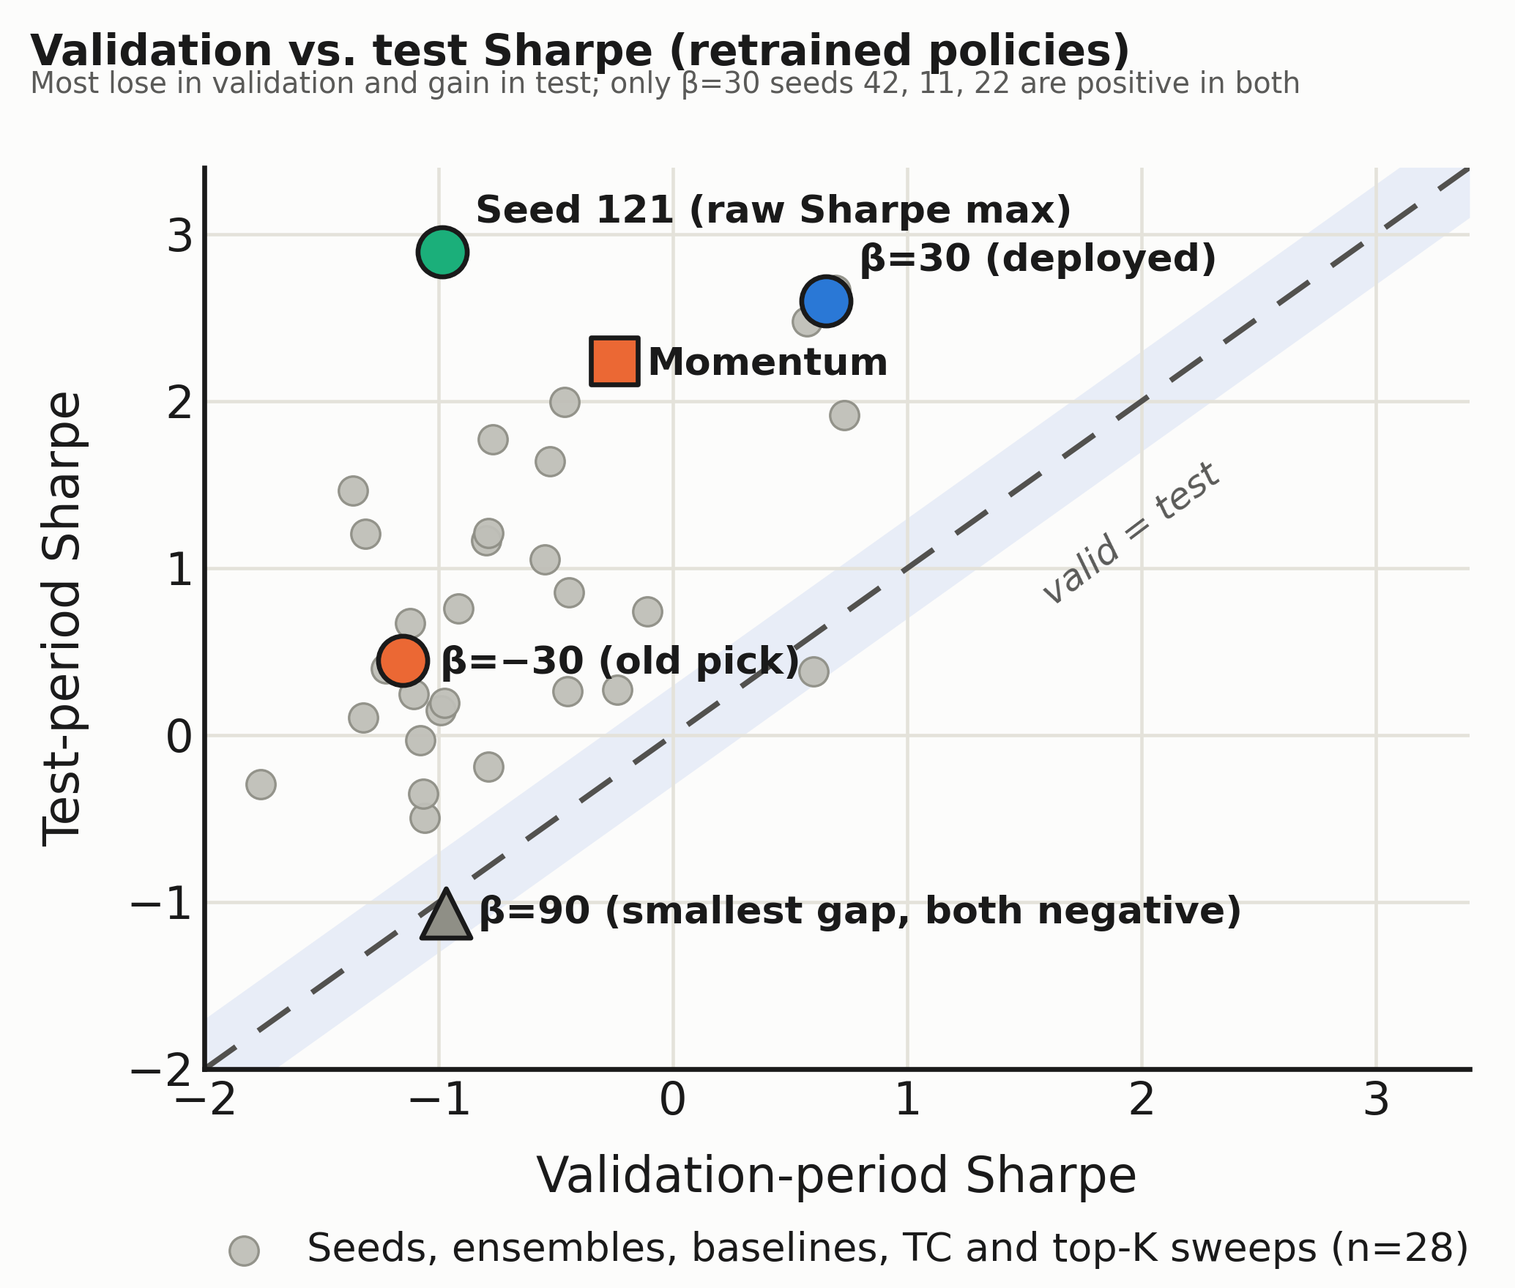
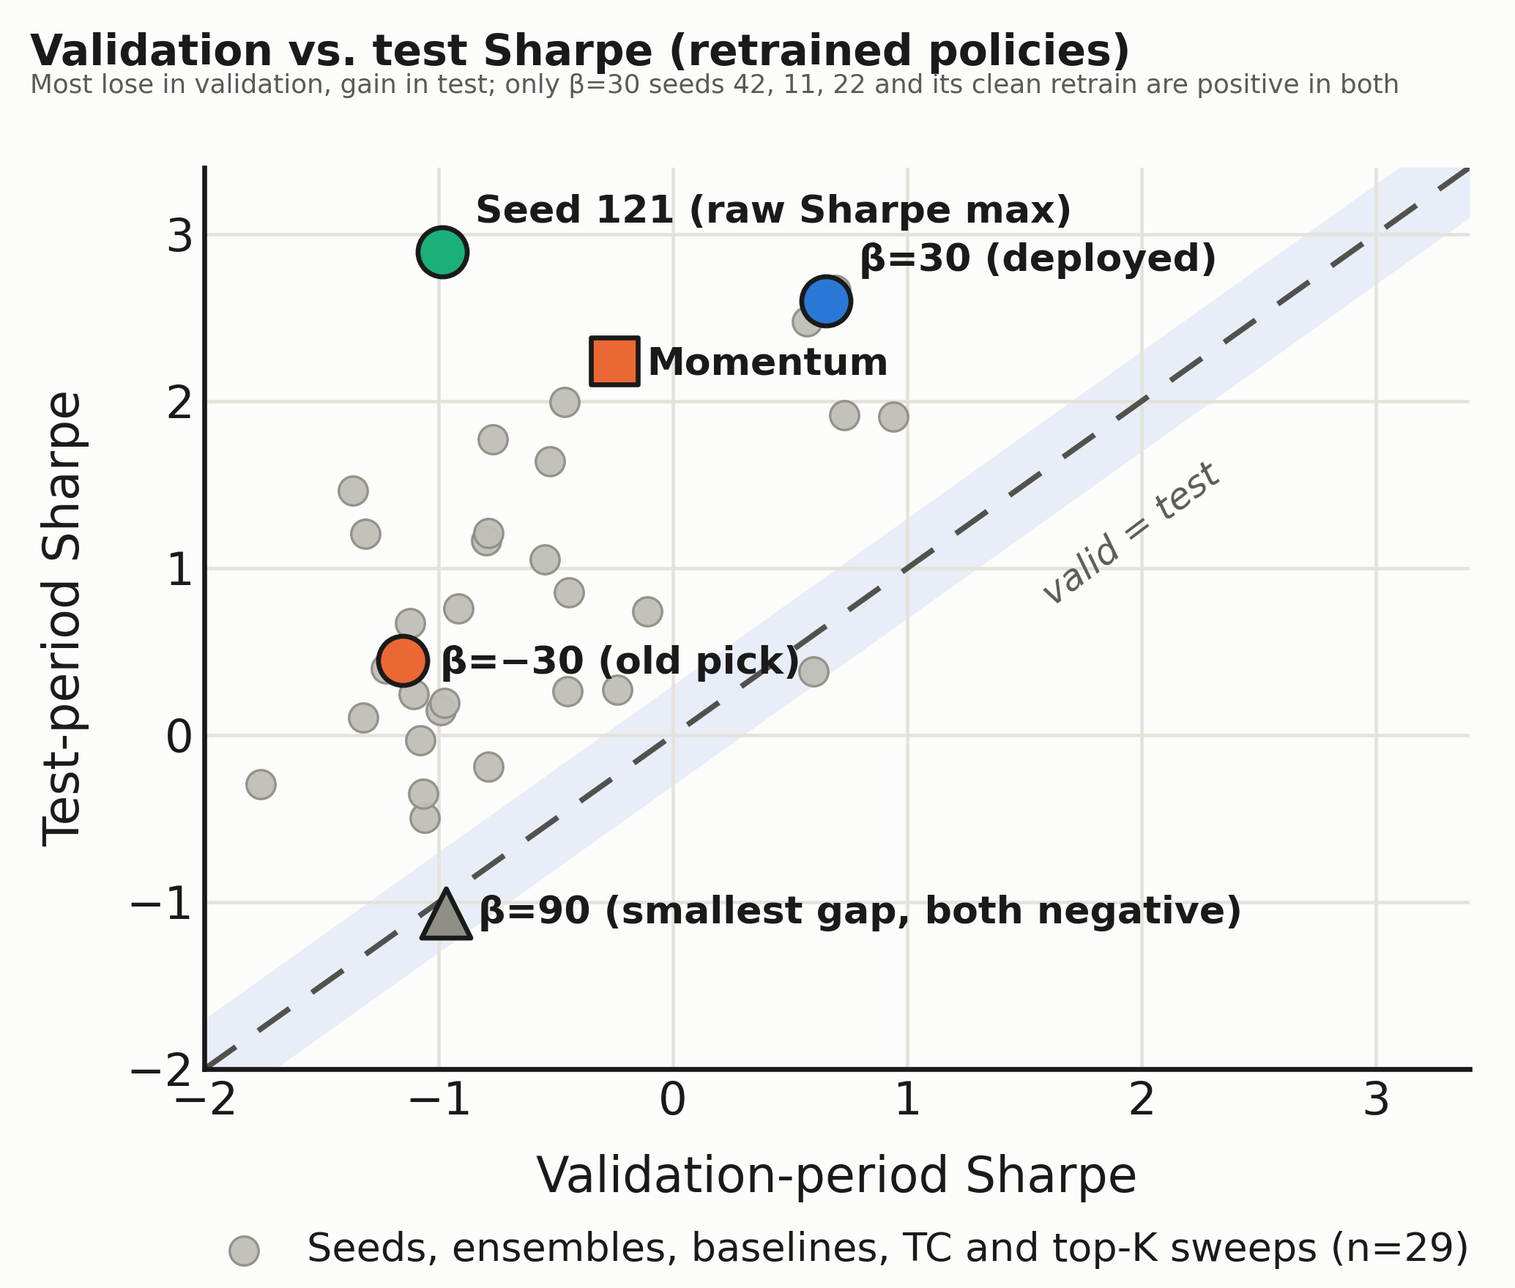
docs: 클린 재학습 모델의 미노출 검증 수치 반영(+2.30%, 샤프 0.939)

Changed region(s): [[0.0309, 0.0614, 0.928, 0.0921], [0.5568, 0.307, 0.6187, 0.3377], [0.928, 0.9517, 0.9589, 0.9824]]

diff --git a/paper/figures/generate_fig2.py b/paper/figures/generate_fig2.py
@@ -17,7 +17,7 @@ TEXT_DARK = "#1a1a1a"
 TEXT_GRAY = "#5a5a58"
 
 # Policies retrained with the corrected reward (2026-10-06~08, crypto/notebooks/retrain1006/,
-# paper/RETRAIN_1006.md). The clean retrain is excluded: its validation Sharpe was not saved.
+# paper/RETRAIN_1006.md).
 # ---- labeled (highlighted) points: (valid, test, label, color, marker, label_offset) ----
 labeled = [
     (0.653, 2.602, "β=30 (deployed)", BLUE, "o", (0.14, 0.24)),
@@ -40,6 +40,7 @@ others = [
     (-0.111, 0.743, "β=-90"),
     (-1.322, 0.106, "K=5"), (-1.122, 0.672, "K=7"), (-0.916, 0.760, "K=15"),
     (-0.548, 1.054, "6-seed ensemble"),
+    (0.939, 1.907, "clean retrain"),
     (-0.797, 1.165, "5-seed ensemble (no seed 11)"),
     (0.601, 0.383, "seed=11"), (0.732, 1.916, "seed=22"), (-1.313, 1.205, "seed=33"),
     (-0.788, -0.187, "seed=44"), (-1.365, 1.465, "seed=55"), (-1.067, -0.349, "seed=66"),
@@ -93,8 +94,8 @@ ax.set_ylabel("Test-period Sharpe", fontsize=16, color=TEXT_DARK, labelpad=12)
 fig.suptitle("Validation vs. test Sharpe (retrained policies)",
              x=0.02, y=0.975, ha="left", fontsize=14, fontweight="bold", color=TEXT_DARK)
 fig.text(0.02, 0.928,
-          "Most lose in validation and gain in test; only β=30 seeds 42, 11, 22 are positive in both",
-          fontsize=9.5, color=TEXT_GRAY, ha="left")
+          "Most lose in validation, gain in test; only β=30 seeds 42, 11, 22 and its clean retrain are positive in both",
+          fontsize=8.6, color=TEXT_GRAY, ha="left")
 
 leg = ax.legend(loc="upper center", bbox_to_anchor=(0.5, -0.14), frameon=False,
                  fontsize=13, markerscale=1.0, handletextpad=0.6)

diff --git a/paper/DRAFT.md b/paper/DRAFT.md
@@ -3,7 +3,7 @@
 *Target venue: KDD Applied Data Science track / ACM ICAIF (2027 cycle). Draft status: Abstract + Introduction, first pass.*
 
 
-> **Retraining status (2026-10-08).** The crypto-track policies have been retrained from scratch with a reward that reflects the corrected accounting (Section 3.3), and every crypto figure in Sections 4–6 is a retrained result (`paper/RETRAIN_1006.md`). What remains is filling in the validation-period figures of the Section 6.3 clean retrain, and (optionally) recomputing the Section 6.4 ensemble over 16 seeds.
+> **Retraining status (2026-10-08).** The crypto-track policies have been retrained from scratch with a reward that reflects the corrected accounting (Section 3.3), and every crypto figure in Sections 4–6 is a retrained result (`paper/RETRAIN_1006.md`). What remains is (optionally) recomputing the Section 6.4 ensemble over 16 seeds.
 ---
 
 ## Abstract
@@ -39,7 +39,7 @@ The resulting investigation surfaces a cascade of failures, each with its own di
 
 ### 1.3 Validating the survivor
 
-The deployment candidate — a single $\beta=30$ specialist with inference-time exponential smoothing and no router — is the simplest configuration to survive this cascade. We subject it to checks aimed at the kinds of failure exposed above: reproducibility across fifteen additional training seeds (in test, 12 of 16 beat equal weight's Sharpe, but only 3, including the deployed seed, are positive in validation, and the seed with the highest validation Sharpe is not the deployed one, Section 6.1); a Deflated Sharpe Ratio correction over the multi-seed selection (0.707, N=16, Section 6.2); a clean retrain that excludes the validation window from training (test +5.40%, Sharpe 1.907, Section 6.3); a weight-averaged ensemble across seeds (test Sharpe 1.054 but negative in validation, Section 6.4); and comparison against four classical baselines (buy-and-hold, cross-sectional momentum, Ledoit-Wolf minimum-variance optimization, risk parity) and two deep-learning baselines adapted from the literature (EIIE, Jiang et al., 2017; LSRE-CAAN, Li, Zhang, Yang, & Chen, 2023). Under a raw-return criterion, momentum wins by a wide margin (+97.41% vs. +8.73% test return). But momentum loses money in validation (−18.21%), giving a validation/test Sharpe gap of 2.490, the largest among the baselines; the candidate's own gap (1.950) is not small either. EIIE and LSRE-CAAN stay close to equal weight under two entirely different network architectures. The conclusion survives doubling the transaction cost (Section 6.9), but the validation/test gap is not significant under a permutation test (Section 6.10), and the low drawdown and most of the test performance are reproduced by equal weight held along the policy's exposure path (Section 6.11).
+The deployment candidate — a single $\beta=30$ specialist with inference-time exponential smoothing and no router — is the simplest configuration to survive this cascade. We subject it to checks aimed at the kinds of failure exposed above: reproducibility across fifteen additional training seeds (in test, 12 of 16 beat equal weight's Sharpe, but only 3, including the deployed seed, are positive in validation, and the seed with the highest validation Sharpe is not the deployed one, Section 6.1); a Deflated Sharpe Ratio correction over the multi-seed selection (0.707, N=16, Section 6.2); a clean retrain that excludes the validation window from training (unseen validation +2.30%/Sharpe 0.939, test +5.40%/Sharpe 1.907, Section 6.3); a weight-averaged ensemble across seeds (test Sharpe 1.054 but negative in validation, Section 6.4); and comparison against four classical baselines (buy-and-hold, cross-sectional momentum, Ledoit-Wolf minimum-variance optimization, risk parity) and two deep-learning baselines adapted from the literature (EIIE, Jiang et al., 2017; LSRE-CAAN, Li, Zhang, Yang, & Chen, 2023). Under a raw-return criterion, momentum wins by a wide margin (+97.41% vs. +8.73% test return). But momentum loses money in validation (−18.21%), giving a validation/test Sharpe gap of 2.490, the largest among the baselines; the candidate's own gap (1.950) is not small either. EIIE and LSRE-CAAN stay close to equal weight under two entirely different network architectures. The conclusion survives doubling the transaction cost (Section 6.9), but the validation/test gap is not significant under a permutation test (Section 6.10), and the low drawdown and most of the test performance are reproduced by equal weight held along the policy's exposure path (Section 6.11).
 
 ### 1.4 Contributions
 
@@ -244,12 +244,11 @@ Table 2 places the deployment candidate (row 9) alongside classical and deep-lea
 | **$\beta=30$ RL, deployed seed (42)** | +8.73% | **2.602** | +2.98% | 0.653 | 1.950 |
 | $\beta=30$, 15 additional seeds (mean) | +6.15% (mean) | 0.972 (mean, $\sigma=0.980$) | −7.79% (mean) | −0.738 (mean, $\sigma=0.689$) | — |
 | $\beta=30$, 6-seed weight-averaged ensemble | +6.21% | 1.054 | −5.45% | −0.548 | 1.602 |
-| $\beta=30$, clean-validation retrain (leakage-free) | +5.40% | 1.907 | (to be filled)$^\S$ | (to be filled)$^\S$ | — |
+| $\beta=30$, clean-validation retrain (leakage-free) | +5.40% | 1.907 | +2.30% | 0.939 | 0.968 |
 | EIIE (Jiang et al., 2017 topology + our PPO pipeline) | −3.51% | 0.148 | −33.56%$^\dagger$ | −0.991$^\dagger$ | 1.139$^\dagger$ |
 | LSRE-CAAN (Li, Zhang, Yang, & Chen, 2023 topology + our PPO pipeline) | −2.37% | 0.193 | −33.31%$^\dagger$ | −0.975$^\dagger$ | 1.168$^\dagger$ |
 
 $^\ast$ The classical baseline rows are computed with a separate simulator over the return matrix (momentum, MVO, and risk parity hold without trading between their own rebalancing dates), whose equal weight differs slightly from the environment-based equal weight of Table 1 (−0.81%, Sharpe 0.255). Both include rebalancing cost. The classical baselines involve no training and are unaffected by retraining.
-$^\S$ The clean retrain's validation-period figures were not saved to the result files and must be copied from the run output (Section 6.3).
 $^\dagger$ The EIIE and LSRE-CAAN notebooks build their evaluation buckets with a raw price-window data loader, so they should be compared with the equal weight recomputed in the same notebook (test −1.92%/Sharpe 0.214, validation −35.97%/Sharpe −1.000, gap 1.214). Compared that way, both architectures perform almost the same as equal weight.
 
 Under a raw-return criterion, momentum wins by a wide margin. But momentum loses money in validation, and its gap (2.490) is the largest among the baselines. The deployment candidate $\beta=30$ is the only one of the ten strategies in Table 2 with positive Sharpe in *both* periods, and it also has the highest test Sharpe. But its gap (1.950) is larger than those of risk parity (0.563), equal weight (0.714), and buy-and-hold (1.296), and the additional-seed mean and the ensemble rows in the same table have negative validation Sharpe — positive performance in both periods is observed only for some seeds, not for the configuration as a whole (Section 6.1).
@@ -319,13 +318,13 @@ Following Section 2.5, we stress that the Deflated Sharpe Ratio and the validati
 
 The choices of $\alpha$ and of the $\beta$ specialist were made on a validation period (2025 Q4) that overlaps the training period (all of 2025), raising the concern that "validation" was not fully held out in the conventional sense. To check this directly, we retrain $\beta=30$ (seed 42) on **only** January–September 2025 (the same boundary as the v3 experiment in Section 4.3), sweep $\alpha$ on the genuinely unseen October–December 2025 window, and run the resulting configuration exactly once on the 2026 H1 test window:
 
-| | Test return | Test Sharpe | Test MDD | Turnover per step |
-|---|---|---|---|---|
-| Equal-weight benchmark | −0.81% | 0.255 | −40.46% | 0.37% |
-| Deployed (trained on all of 2025, selected on the overlapping validation window) | +8.73% | 2.602 | −4.38% | 0.044% |
-| **Clean retrain (trained on 9 months, $\alpha$ selected on the genuinely unseen 3 months)** | **+5.40%** | **1.907** | **−4.05%** | 0.027% |
+| | Validation return | Validation Sharpe | Test return | Test Sharpe | Test MDD |
+|---|---|---|---|---|---|
+| Equal-weight benchmark | −32.56% | −0.459 | −0.81% | 0.255 | −40.46% |
+| Deployed (trained on all of 2025, selected on the overlapping validation window) | +2.98% | 0.653 | +8.73% | 2.602 | −4.38% |
+| **Clean retrain (trained on 9 months, $\alpha$ selected on the genuinely unseen 3 months)** | **+2.30%** | **0.939** | **+5.40%** | **1.907** | **−4.05%** |
 
-The unseen validation window selects the same $\alpha=0.01$ as the deployed configuration, and test performance, while lower than the deployed model's, stays strong (Sharpe 1.907, MDD −4.05%). Exposing the validation window during training therefore did not create $\beta=30$'s test performance. The difference in test Sharpe (2.602 vs. 1.907) mixes the effect of three fewer months of training data with the training randomness seen in Section 6.1, and this single experiment cannot separate the two. The clean model's validation-period figures were not saved to the result files and are not yet filled in this draft. We do not switch deployment to the clean retrain — switching based on test results would reintroduce test-set-informed selection.
+The clean retrain is positive even on the validation window it never saw: as $\alpha$ shrinks from 1.0 to 0.01, validation return improves monotonically from −6.39% to +2.30% (Sharpe −3.186 → 0.939), and the best value, $\alpha=0.01$, matches the deployed configuration. Test performance also stays strong (Sharpe 1.907, MDD −4.05%). Two readings follow. First, exposing the validation window during training did not create $\beta=30$'s *test* performance. Second, the deployed model's positive *validation* result is not merely an artifact of training on that window either — a model that never saw it earns an even higher Sharpe there (0.939 vs. 0.653). Before retraining ($\beta=-30$), the clean model lost money in validation for every $\alpha$, so this second reading did not hold; after retraining it does. This is still a single seed, though, and Section 6.1 shows that most seeds of the same configuration are negative in validation. The difference in test Sharpe (2.602 vs. 1.907) mixes the effect of three fewer months of training data with training randomness, and this single experiment cannot separate the two. We do not switch deployment to the clean retrain — switching based on test results would reintroduce test-set-informed selection.
 
 ### 6.4 Ensemble averaging (a negative result)
 
@@ -416,7 +415,7 @@ Three things follow. First, **the drawdown improvement comes almost entirely fro
 
 ![Figure 2: Validation/test consistency across every swept configuration](figures/fig2_valid_test_consistency.png)
 
-**Figure 2.** Every configuration in Section 6 for which both a validation-period and a test-period Sharpe ratio were computed, plotted against the $y=x$ diagonal (shaded band: $|$gap$|<0.3$); all crypto points are retrained results. The clean retrain (Section 6.3, validation Sharpe not saved) and the KOSPI candidate of Section 7 (a different market) are excluded (`paper/figures/generate_fig2.py`). The deployment candidate $\beta=30$ sits 1.950 from the diagonal; 13 of the 16 seeds, the ensembles, and the $K\neq10$ variants cluster in the "validation negative, test positive" quadrant; seed 121, the raw test-Sharpe maximum, is negative in validation; and the point closest to the diagonal is $\beta=90$ (0.094), negative in both periods — proximity to the diagonal is not by itself a sufficient success criterion.
+**Figure 2.** Every configuration in Section 6 for which both a validation-period and a test-period Sharpe ratio were computed, plotted against the $y=x$ diagonal (shaded band: $|$gap$|<0.3$); all crypto points are retrained results. The KOSPI candidate of Section 7 (a different market) is excluded (`paper/figures/generate_fig2.py`). The deployment candidate $\beta=30$ sits 1.950 from the diagonal; 13 of the 16 seeds, the ensembles, and the $K\neq10$ variants cluster in the "validation negative, test positive" quadrant; the clean retrain is positive in both periods, 0.968 from the diagonal; seed 121, the raw test-Sharpe maximum, is negative in validation; and the point closest to the diagonal is $\beta=90$ (0.094), negative in both periods — proximity to the diagonal is not by itself a sufficient success criterion.
 
 ---
 
@@ -485,7 +484,7 @@ We list the limitations of this study directly, in the order they arise across S
 8. **The EIIE and LSRE-CAAN baselines (Section 6.6) reimplement only the network topology, not the original training procedure.** Both original papers' training methods (EIIE's OSBL, LSRE-CAAN's direct policy gradient) are replaced with this paper's PPO pipeline; the comparisons in Section 6.6 should be read as "each architecture under our training regime," not as full reproductions of Jiang, Xu, & Liang (2017) or Li, Zhang, Yang, & Chen (2023).
 9. **This is an empirical case study and diagnostic methodology, not a new algorithm.** Every architectural component in Sections 4 and the diagnostics in Section 6 are adaptations of existing published methods (Section 2); the paper's contribution is the documented failure cascade and the validation methodology built to interrogate it, which is why we position this work for an applied-science venue (Section 1) rather than a methods-focused main research track.
 10. **Live deployment evidence is preliminary.** The final policy (Section 4.6) is running on a real exchange account as of this writing, but the live trading log has been accumulating only since 2026-07-29 and is not yet long enough to serve as an independent validation of the backtested results reported in Sections 5–6; we report the live deployment as the current operational status of this work, not as additional evidence for its claims. Moreover, the policy running in the live account is the $\beta=-30$ specialist trained with the pre-correction reward; it differs from the retrained deployment candidate ($\beta=30$), and after retraining the same configuration loses money in validation — it needs to be replaced. That the replacement candidate $\beta=30$ is a very conservative policy with 10–20% average risky-asset exposure (Section 6.11) should also inform that operational decision.
-11. **The crypto policies have been retrained with the corrected reward, but a few auxiliary numbers have not yet been updated.** After fixing the accounting errors of Section 3.3 (holding drift and untradable-asset handling), we retrained and re-evaluated from scratch, with the corrected reward, the crypto policies, routers, baselines, and robustness experiments of Sections 4–6, as well as the objective-injection experiment of Section 4.3 (`crypto/notebooks/retrain1006/`, `paper/RETRAIN_1006.md`). The validation-period figures of the Section 6.3 clean retrain are not yet filled in, and the Section 6.4 ensemble was computed over the first six seeds only. The KOSPI, U.S. large-cap, and point-in-time experiments of Section 7 were recomputed under the corrected environment (only the KOSPI single-policy PPO was retrained; the rest were re-evaluated). The Section 7 KOSPI HRL was trained on the original, defective embedding pipeline.
+11. **The crypto policies have been retrained with the corrected reward, but the ensemble covers only some seeds.** After fixing the accounting errors of Section 3.3 (holding drift and untradable-asset handling), we retrained and re-evaluated from scratch, with the corrected reward, the crypto policies, routers, baselines, and robustness experiments of Sections 4–6, as well as the objective-injection experiment of Section 4.3 (`crypto/notebooks/retrain1006/`, `paper/RETRAIN_1006.md`). The Section 6.4 ensemble was computed over the first six seeds only. The KOSPI, U.S. large-cap, and point-in-time experiments of Section 7 were recomputed under the corrected environment (only the KOSPI single-policy PPO was retrained; the rest were re-evaluated). The Section 7 KOSPI HRL was trained on the original, defective embedding pipeline.
 
 ---
 

diff --git a/README.md b/README.md
@@ -156,7 +156,7 @@ EarnHFT(Qin et al., AAAI'24)라는 논문은 원래 자산 하나, 포지션도 
 | **β=30 RL (배포 시드)** | +8.73% | **2.602** | 0.653 | 1.950 |
 | β=30, 추가 시드 15개 평균 | +6.15% | 0.972 | −0.738 | — |
 | β=30, 6시드 앙상블 | +6.21% | 1.054 | −0.548 | 1.602 |
-| β=30, 클린 재학습 | +5.40% | 1.907 | (미저장) | — |
+| β=30, 클린 재학습 | +5.40% | 1.907 | 0.939 | 0.968 |
 
 - 모멘텀은 raw 수익률이 훨씬 높지만 검증에서 손실 → 테스트에서만 터진 패턴.
 - 격차가 작다고 좋은 정책은 아니다 — β=90 전문가는 격차 0.094로 가장 작았지만 두 구간 다 손실이었다. 반대로 선택된 β=30은 격차가 1.950으로 크다.
@@ -169,7 +169,7 @@ EarnHFT(Qin et al., AAAI'24)라는 논문은 원래 자산 하나, 포지션도 
 | 다중 시드 (β=30, N=16) | 테스트는 16개 중 12개가 등가중(0.255) 상회. 검증은 3개(42, 11, 22)만 양(+), 추가 10개는 전부 음. 검증 샤프 최고는 seed 22(0.732), 테스트 최고는 seed 121(2.893) — 둘 다 배포 seed 42가 아님 |
 | Deflated Sharpe Ratio | seed 42 0.826 (N=6) → 0.707 (N=16), seed 121 0.775 — 관습적 유의수준(0.95) 미달 |
 | 블록 순열검정 (valid/test 격차) | 4β 모두 유의하지 않음(β=30 p=0.498). 부트스트랩 CI는 β=30 테스트 샤프까지 0 포함 |
-| 클린 valid 재학습 (유출 없음) | β=30, 1~9월만 학습: 미노출 검증에서도 α=0.01 선택, 테스트 +5.40% / Sharpe 1.907 / MDD −4.05% |
+| 클린 valid 재학습 (유출 없음) | β=30, 1~9월만 학습: 미노출 검증 +2.30% / Sharpe 0.939(α=0.01 선택), 테스트 +5.40% / Sharpe 1.907 / MDD −4.05% — 두 구간 모두 양(+) |
 | 노출 맞춤 벤치마크 | 정책 노출 평균 검증 20.9%·테스트 10.4%. 같은 노출 경로의 등가중이 테스트 샤프 1.998·MDD −4.60%(정책 2.602·−4.38%) — 낙폭 개선은 거의 전부, 테스트 성과는 대부분 노출 타이밍 |
 | 앙상블 (6시드 비중평균) | β=30: 테스트 샤프 1.054지만 검증 −0.548, 격차 1.602 — 부정적 결과 유지 |
 | top-K 스윕 {5,7,10,15} | β=30: K=10만 검증 양(+)이고 두 구간 모두 최고 — 검증으로 골라도 K=10. 다만 K당 시드 1개. IC는 4β 모두 사실상 0(0.0014~0.0046) |
@@ -345,7 +345,6 @@ python -m crypto.live_trading_loop_binance --model-dir crypto/models --live
 - 백테스트 회계 오류 수정(2026-10-04)과 크립토 정책 전체 재학습(2026-10-06~07, `crypto/notebooks/retrain1006/`)
 
 **남은 일**
-- 클린 재학습 모델의 검증 구간 수치 기입(CSV 미저장, Colab 출력에서 옮겨야 함)
 - (선택) 앙상블을 16시드로 재계산
 - 실계좌 정책 교체 여부 결정 (재학습 후 β=-30은 검증 구간에서 손실)
 - `references.bib` / 정식 인용 스타일 변환 (투고 venue 확정 후)

diff --git a/paper/RETRAIN_1006.md b/paper/RETRAIN_1006.md
@@ -244,5 +244,5 @@ K=10이 두 구간 모두 최고이고 검증 플러스는 K=10뿐이다. 검증
 - 선택: 6시드 앙상블을 16시드로 다시 계산(노트북 없음).
 - ~~논문 본문에 이 문서 수치 옮기기~~ — 2026-10-08 완료(DRAFT·DRAFT_KR·DRAFT_KR_easy·README).
 - ~~그림 1·2 재생성~~ — 2026-10-08 완료(`paper/figures/generate_fig{1,2}.py`).
-- 클린 재학습 모델의 검증 구간 수치(CSV에 저장되지 않음 — Colab 출력에서 옮겨 논문 6.3절·표 2에 기입).
+- ~~클린 재학습 모델의 검증 구간 수치~~ — 2026-10-08 Drive의 실행 노트북 출력에서 확인: 미노출 검증 α 스윕 α=1.0 −6.39%(샤프 −3.186) → 0.3 −5.17% → 0.15 −4.31% → 0.05 −1.92% → 0.03 −0.39% → 0.02 +0.81% → **0.01 +2.30%(샤프 0.939)**. 논문 6.3절·표 2·그림 2 반영.
 - 실계좌 β=−30 → β=30 교체 여부 결정. 6.3절에 따르면 β=30은 평균 노출 10~20%의 매우 보수적인 정책이다.
